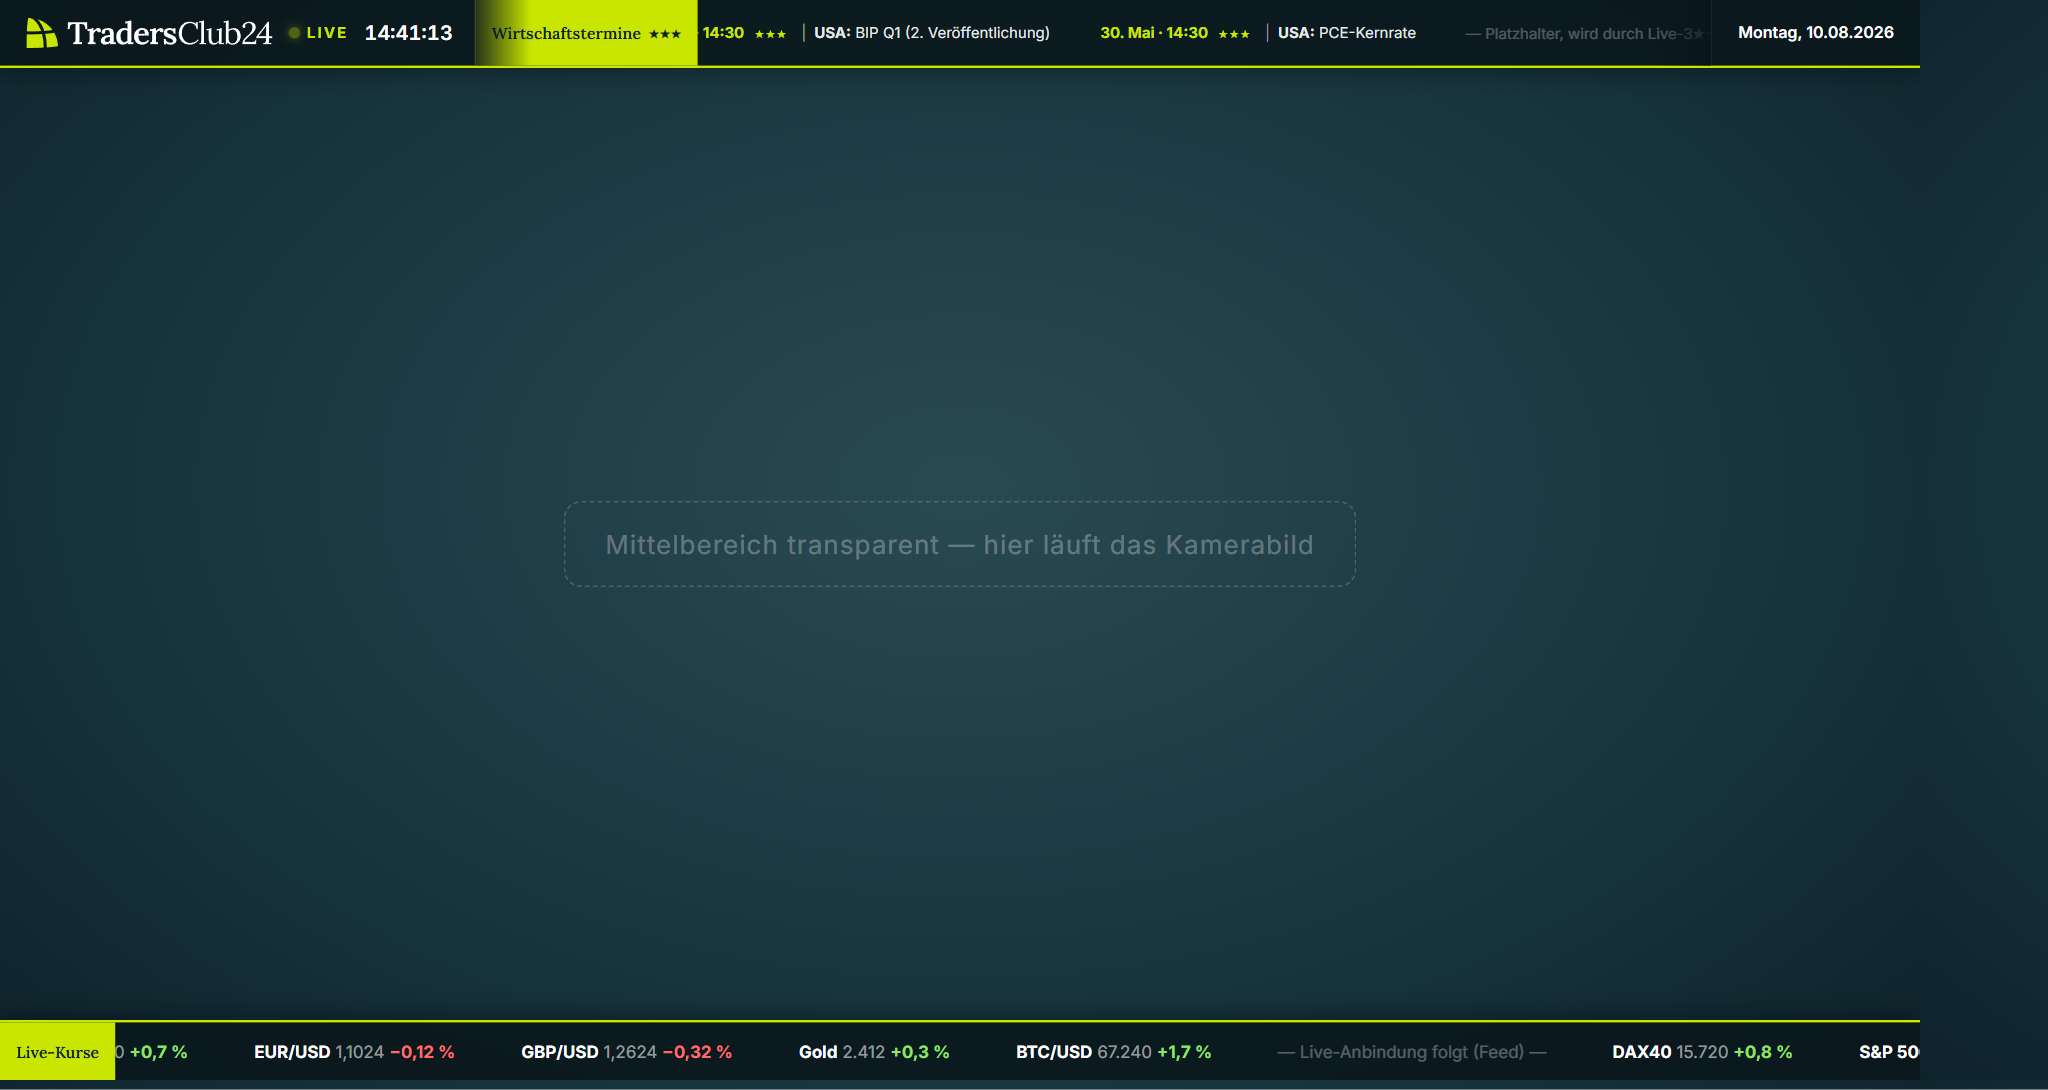
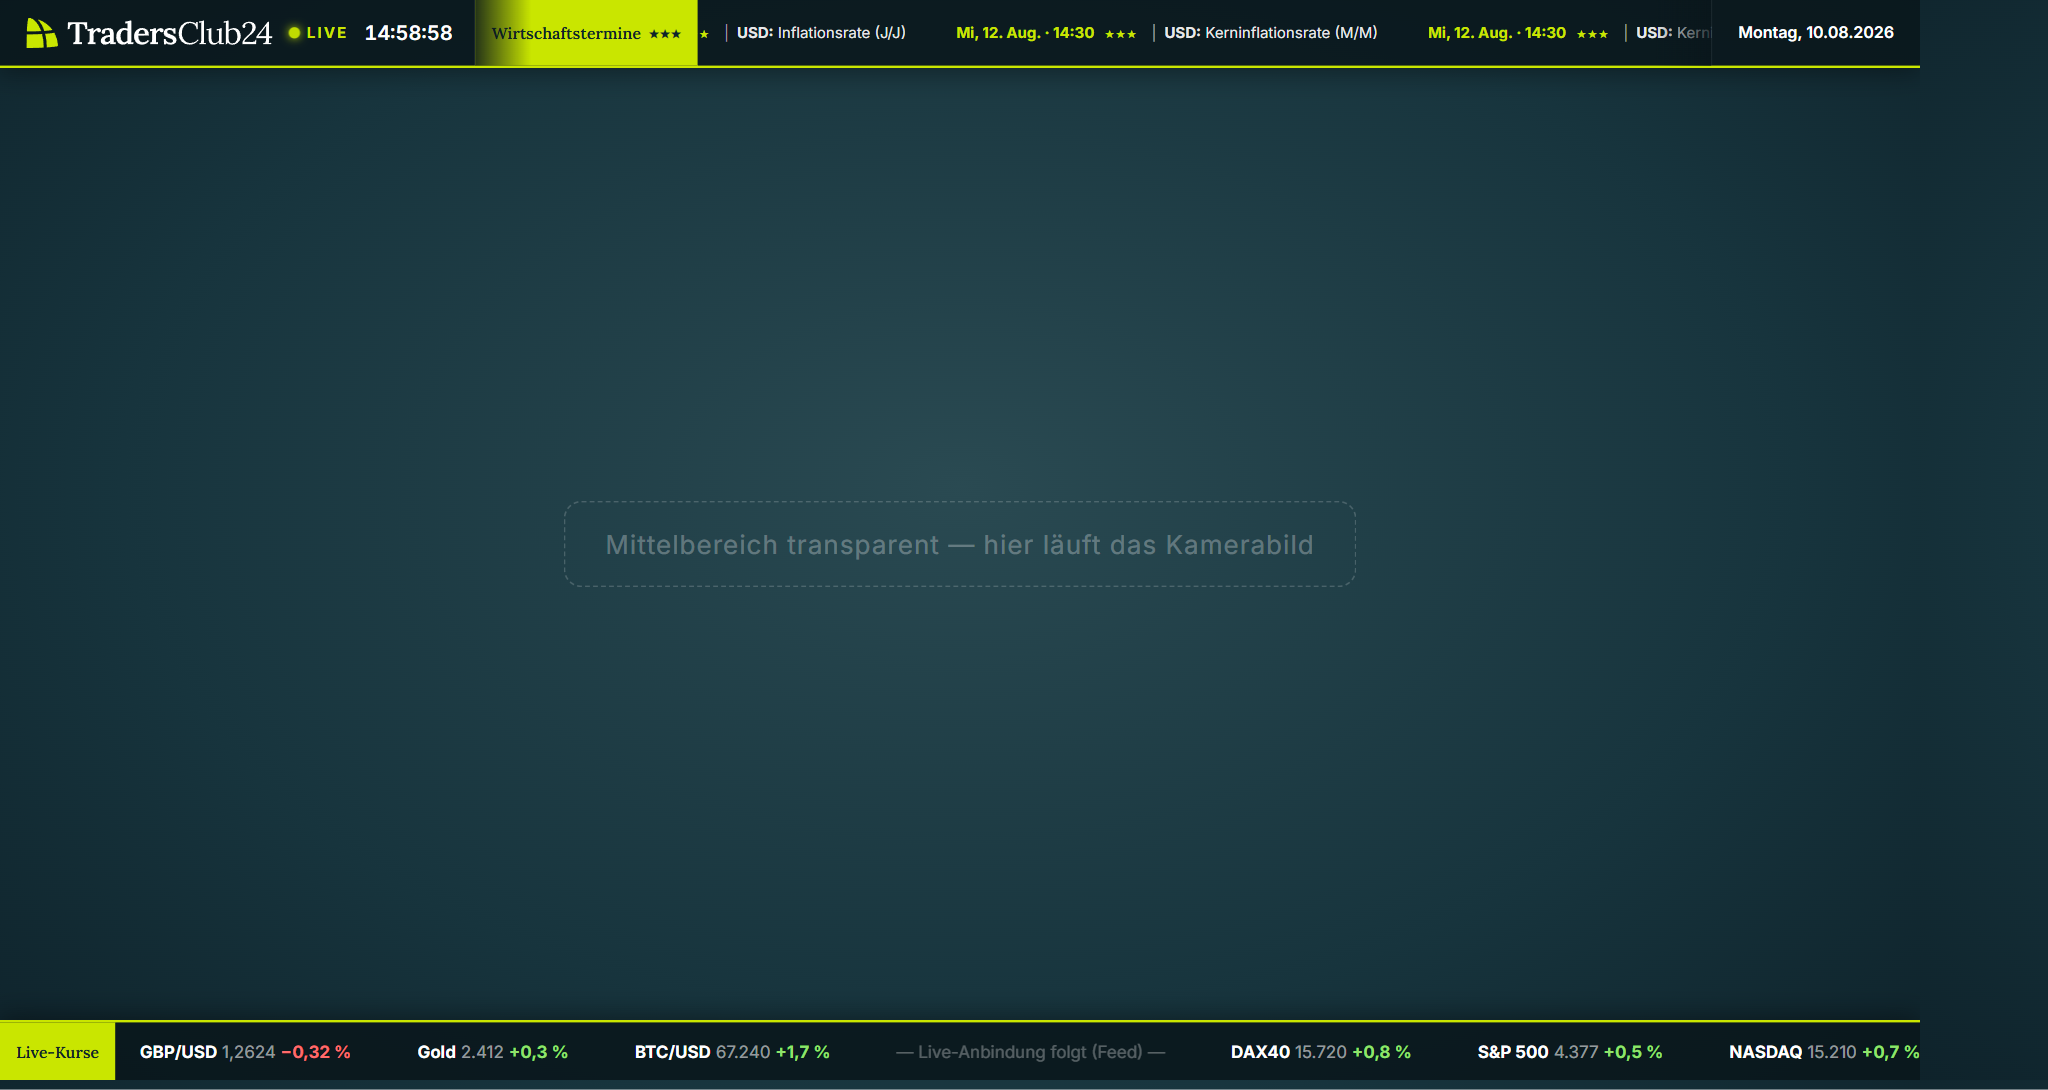
tc24-live-overlay v3: top band wired to live 3-star economic calendar (reuse tc24-market-data proxy)

diff --git a/tc24-live-overlay/live-overlay.html b/tc24-live-overlay/live-overlay.html
@@ -91,7 +91,7 @@
     <div class="ticker-wrap">
       <span class="ticker-label">Wirtschaftstermine <span class="stars">★★★</span></span>
       <div class="marquee" id="newsMarquee">
-        <span id="newsTrack">
+        <span id="newsTrack" data-track>
           <a class="divider"></a><a class="hl">27. Mai · 14:30</a><a class="impact">★★★</a><a class="sep">|</a><a><b>USA:</b> Auftragseingang langlebiger Güter</a>
           <a class="divider"></a><a class="hl">28. Mai · 20:00</a><a class="impact">★★★</a><a class="sep">|</a><a><b>USA:</b> FOMC-Sitzungsprotokoll</a>
           <a class="divider"></a><a class="hl">29. Mai · 14:30</a><a class="impact">★★★</a><a class="sep">|</a><a><b>USA:</b> BIP Q1 (2. Veröffentlichung)</a>
@@ -110,7 +110,7 @@
   <footer class="marketbar">
     <span class="ticker-label">Live-Kurse</span>
     <div class="marqueefoot" id="priceMarquee">
-      <span id="priceTrack">
+      <span id="priceTrack" data-track>
         <a class="divider"></a><a><span class="sym">DAX40</span> <span class="val">15.720</span> <span class="pos">+0,8 %</span></a>
         <a class="divider"></a><a><span class="sym">S&amp;P 500</span> <span class="val">4.377</span> <span class="pos">+0,5 %</span></a>
         <a class="divider"></a><a><span class="sym">NASDAQ</span> <span class="val">15.210</span> <span class="pos">+0,7 %</span></a>
@@ -124,16 +124,44 @@
   </footer>
 
 <script>
-function showTime(){ const d=new Date(),p=n=>String(n).padStart(2,'0');
-  document.getElementById('time').textContent=p(d.getHours())+':'+p(d.getMinutes())+':'+p(d.getSeconds()); setTimeout(showTime,1000); }
-function showDate(){ const d=new Date(),p=n=>String(n).padStart(2,'0');
-  document.getElementById('date').textContent=d.toLocaleString('de-DE',{weekday:'long'})+', '+p(d.getDate())+'.'+p(d.getMonth()+1)+'.'+d.getFullYear(); }
-function Marquee(selector,speed){ const w=document.querySelector(selector); if(!w) return;
-  const first=w.children[0], html=w.innerHTML; w.insertAdjacentHTML('beforeend',html); w.insertAdjacentHTML('beforeend',html);
-  let i=0; setInterval(()=>{ first.style.marginLeft='-'+i+'px'; if(i>first.clientWidth){i=0;} i+=speed; },16); }
+const EC_ENDPOINT='https://tc24-wirtschaftskalender.vercel.app/api/economic-calendar';
+const pad=n=>String(n).padStart(2,'0');
+function showTime(){ const d=new Date();
+  document.getElementById('time').textContent=pad(d.getHours())+':'+pad(d.getMinutes())+':'+pad(d.getSeconds()); setTimeout(showTime,1000); }
+function showDate(){ const d=new Date();
+  document.getElementById('date').textContent=d.toLocaleString('de-DE',{weekday:'long'})+', '+pad(d.getDate())+'.'+pad(d.getMonth()+1)+'.'+d.getFullYear(); }
+// Re-runbarer Marquee: klont den [data-track] + scrollt endlos; auf Refresh sauber neu.
+function runMarquee(wrap,speed){ if(!wrap) return; if(wrap._iv) clearInterval(wrap._iv);
+  wrap.querySelectorAll('[data-clone]').forEach(n=>n.remove());
+  const track=wrap.querySelector('[data-track]'); if(!track) return;
+  const c1=track.cloneNode(true),c2=track.cloneNode(true); c1.dataset.clone='1'; c2.dataset.clone='1';
+  wrap.appendChild(c1); wrap.appendChild(c2);
+  let i=0; wrap._iv=setInterval(()=>{ track.style.marginLeft='-'+i+'px'; if(i>track.clientWidth) i=0; i+=speed; },16); }
+function fmtBerlin(iso){ const d=new Date(iso), o={timeZone:'Europe/Berlin'};
+  return d.toLocaleString('de-DE',{weekday:'short',...o})+', '
+       + d.toLocaleString('de-DE',{day:'2-digit',month:'short',...o})+' · '
+       + d.toLocaleString('de-DE',{hour:'2-digit',minute:'2-digit',...o}); }
+// 3★-News live aus dem bestehenden tc24-market-data-Proxy (CORS offen), impact=high.
+async function loadNews(){
+  try{
+    const r=await fetch(EC_ENDPOINT,{cache:'no-store'}); const d=await r.json();
+    const now=Date.now();
+    const ev=(d.events||[]).filter(e=>e.impact==='high')
+      .filter(e=>new Date(e.dateUtc).getTime()>now-6*3600e3)
+      .sort((a,b)=>new Date(a.dateUtc)-new Date(b.dateUtc)).slice(0,24);
+    if(!ev.length) return;
+    document.getElementById('newsTrack').innerHTML=ev.map(e=>
+      '<a class="divider"></a><a class="hl">'+fmtBerlin(e.dateUtc)+'</a><a class="impact">★★★</a>'+
+      '<a class="sep">|</a><a><b>'+e.currency+':</b> '+(e.titleDe||e.title)+'</a>').join('');
+    runMarquee(document.getElementById('newsMarquee'),1.1);
+  }catch(err){ /* Netzfehler → Platzhalter bleibt */ }
+}
 window.addEventListener('load',()=>{
   if(new URLSearchParams(location.search).get('cam')) document.body.classList.add('cam');
-  showDate(); showTime(); Marquee('#newsMarquee',1.1); Marquee('#priceMarquee',0.7);
+  showDate(); showTime();
+  runMarquee(document.getElementById('newsMarquee'),1.1);
+  runMarquee(document.getElementById('priceMarquee'),0.7);
+  loadNews(); setInterval(loadNews,15*60*1000);
 });
 </script>
 </body>
